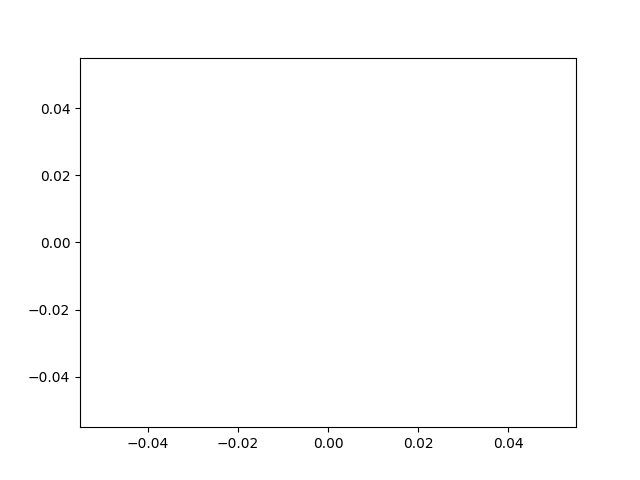
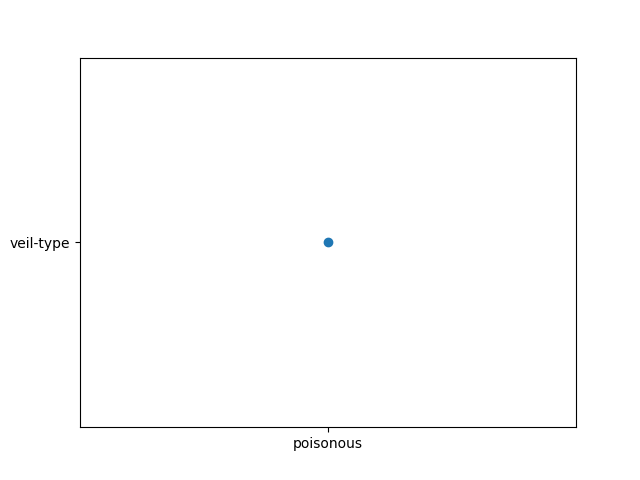
testing ig

diff --git a/data/fetch_data.py b/data/fetch_data.py
@@ -13,6 +13,7 @@ print(mushroom.metadata)
 # variable information 
 print(mushroom.variables) 
 
-plt.scatter(mushroom.gillsize, mushroom.gillspacing)
+plt.figure()
+plt.scatter("poisonous", "veil-type")
 plt.show()
 plt.savefig('chart_1.png')
